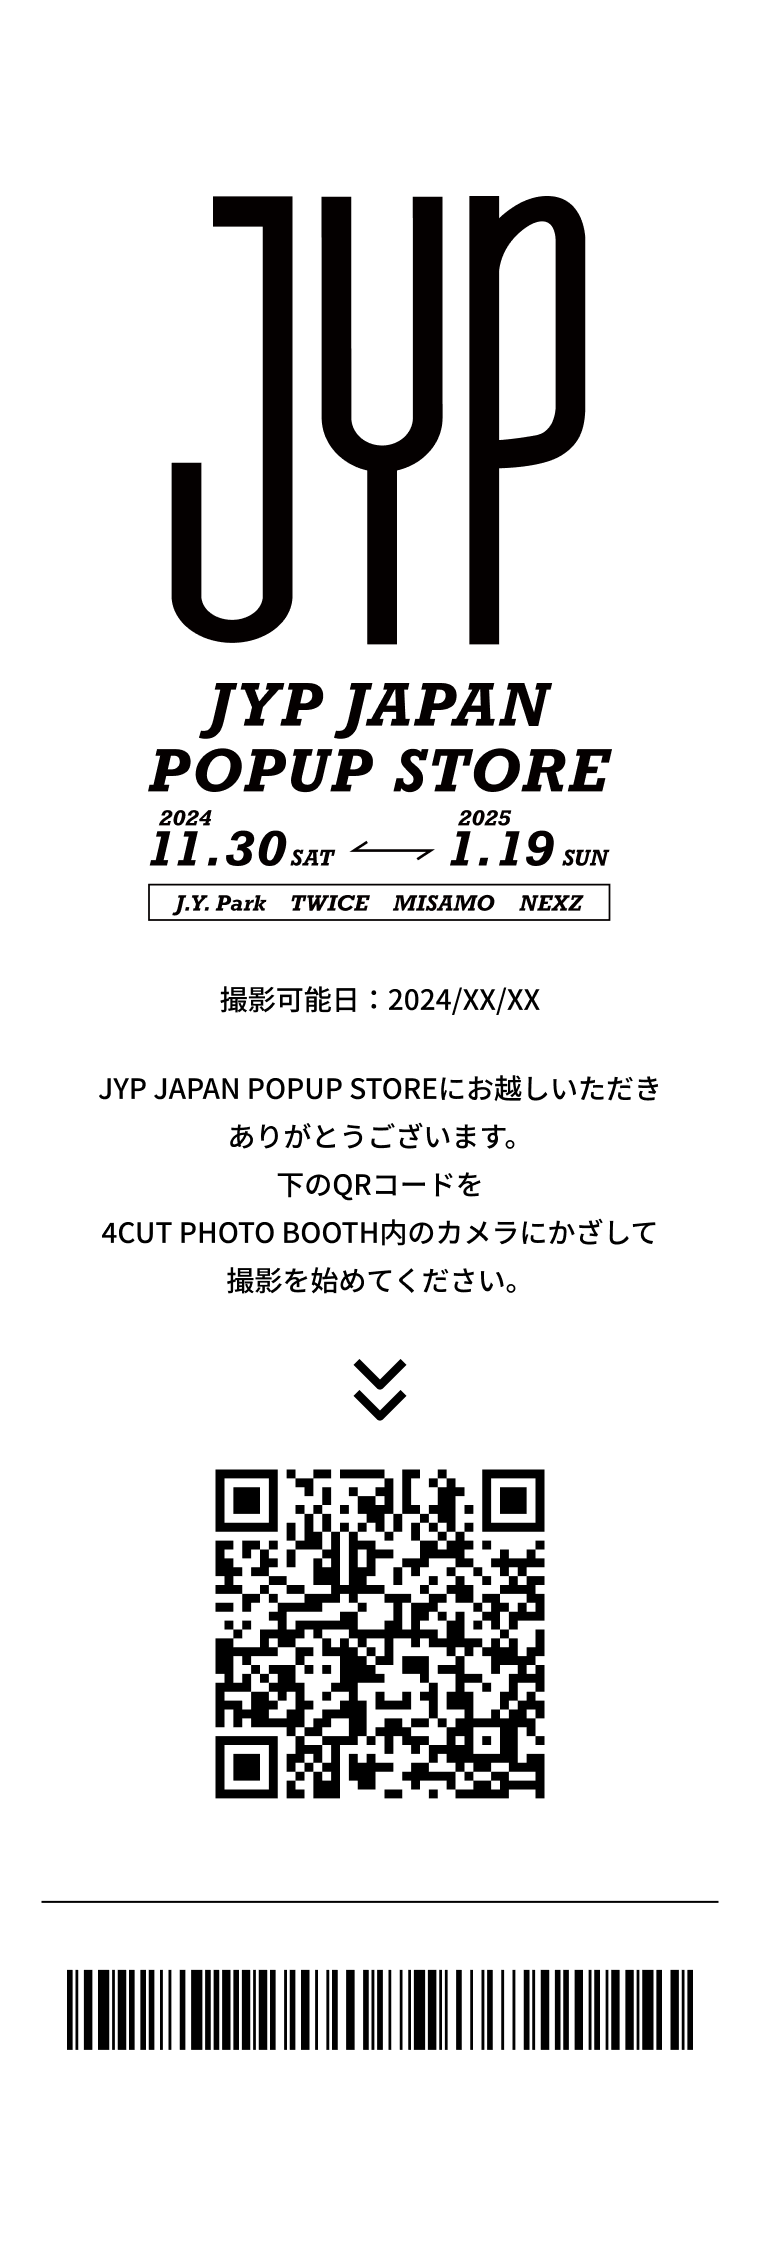
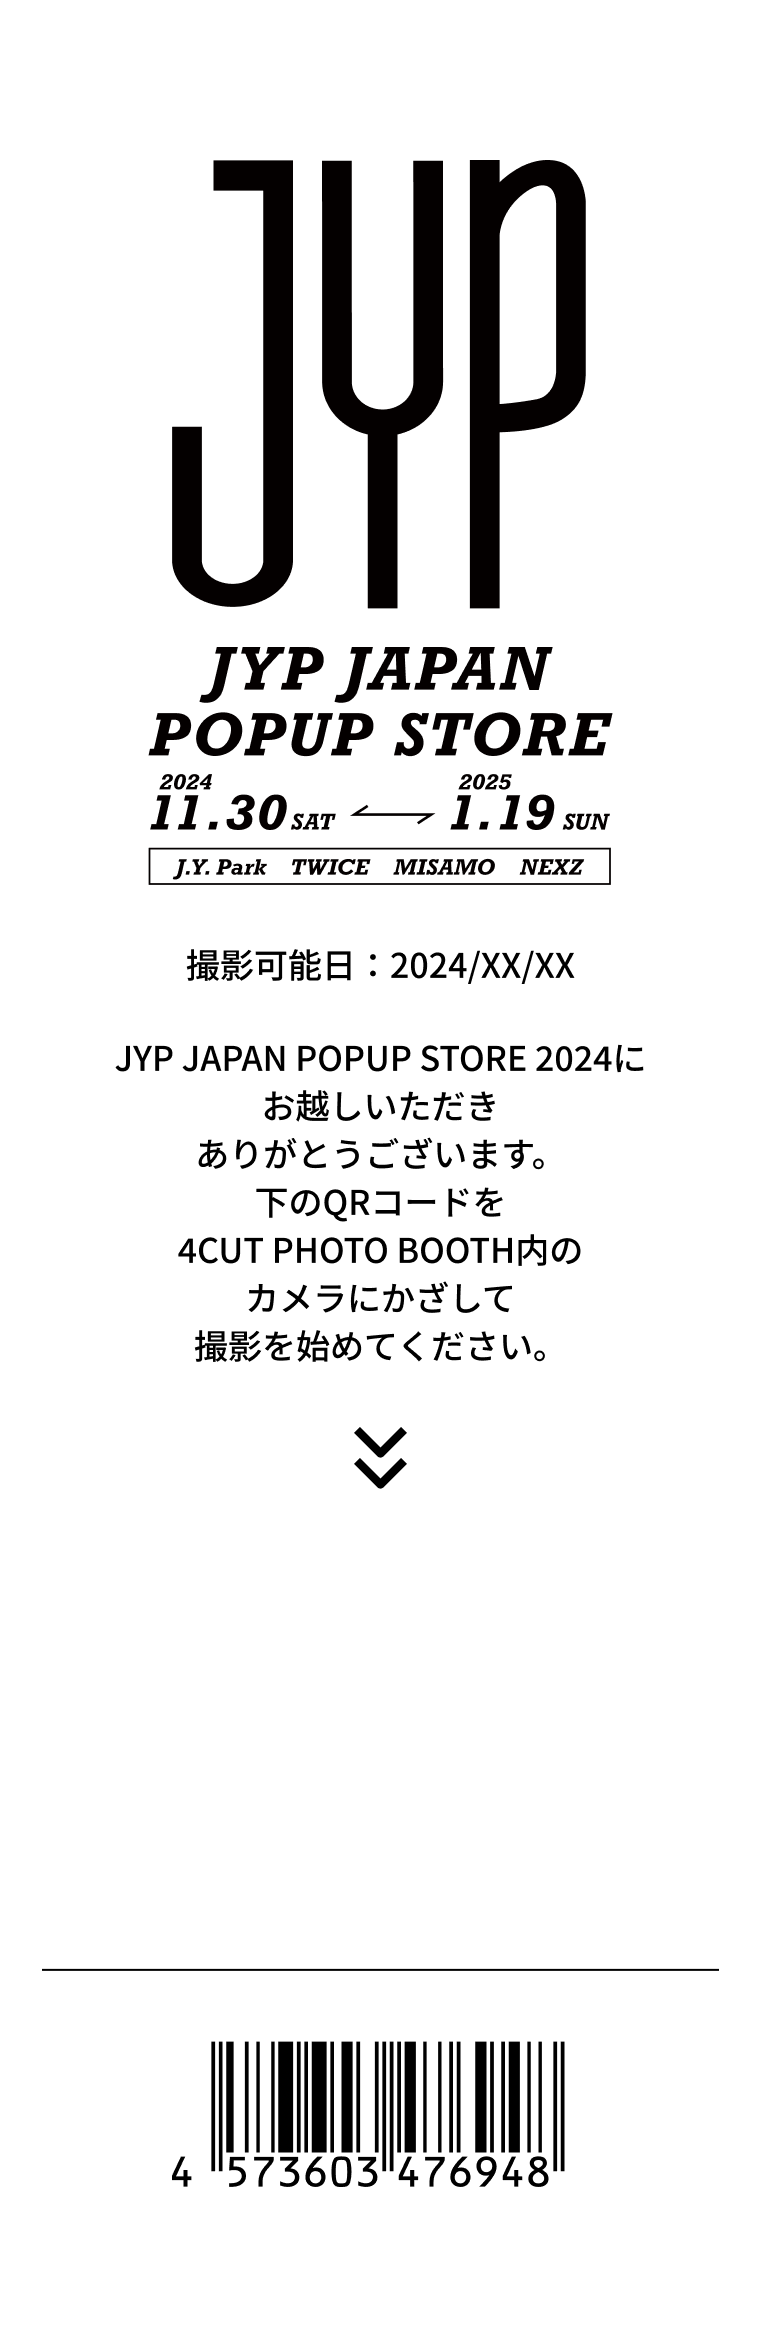
Add : Implementation to compose qr code
QRコードを合成する実装

diff --git a/Assets/Scripts/Model/Common.cs b/Assets/Scripts/Model/Common.cs
@@ -1,6 +1,5 @@
 using System;
-using System.Collections;
-using System.Collections.Generic;
+using System.IO;
 using System.Text.RegularExpressions;
 using UnityEngine;
 using Nett;
@@ -43,5 +42,40 @@ public static class Common
 
         Debug.Log($"*** [ {className} ] {methodName}() {msg} ***");
         // Debug.Log($"*** {msg} ***");
+    }
+
+    /// <summary>
+    /// 指定されたフォルダ内のすべてのファイルとサブフォルダを削除します。
+    /// </summary>
+    /// <param name="folderPath">削除対象のフォルダのパス。</param>
+    public static void ClearFolder(string folderPath)
+    {
+        try
+        {
+            if (!Directory.Exists(folderPath))
+            {
+                return;
+            }
+
+            // フォルダ内のすべてのファイルを削除
+            string[] files = Directory.GetFiles(folderPath);
+            foreach (string file in files)
+            {
+                File.Delete(file);
+                Common.Log($"delete file : {file}");
+            }
+
+            // フォルダ内のすべてのサブフォルダを削除
+            string[] directories = Directory.GetDirectories(folderPath);
+            foreach (string directory in directories)
+            {
+                Directory.Delete(directory, true); // サブフォルダとその中身を再帰的に削除
+                Common.Log($"delete dir : {directory}");
+            }
+        }
+        catch (Exception ex)
+        {
+            Common.Log($"error: {ex.Message}");
+        }
     }
 }

diff --git a/Assets/Scripts/Model/TicketComposer.cs b/Assets/Scripts/Model/TicketComposer.cs
@@ -1,0 +1,43 @@
+using System;
+using System.IO;
+using System.Threading.Tasks;
+using System.Drawing;
+using UnityEngine;
+
+public static class TicketComposer{
+    public static async Task Compose(string scrQrFilePath, string distTicketFilePath)
+    {
+        await Task.Run(() =>
+        {
+            try
+            {
+                string baseImagePath = Constants.BASE_TICKET_PATH;
+
+                using (Bitmap baseImage = new Bitmap(baseImagePath))
+                using (Bitmap qrImage = new Bitmap(scrQrFilePath))
+                using (System.Drawing.Graphics g = System.Drawing.Graphics.FromImage(baseImage))
+                {
+                    Vector2 qrImageSize = new(400, 400);
+
+                    g.DrawImage(
+                        qrImage,
+                        (baseImage.Width - qrImageSize.x) * 0.5f,
+                        baseImage.Height * 0.64f,
+                        qrImageSize.x,
+                        qrImageSize.y
+                    );
+                    g.Dispose();
+
+                    baseImage.Save(distTicketFilePath, System.Drawing.Imaging.ImageFormat.Png);
+                    baseImage.Dispose();
+                    qrImage.Dispose();
+                }
+            }
+            catch (Exception ex)
+            {
+                Common.Log($"エラーが発生しました: {ex.Message}");
+                throw;
+            }
+        });
+    }
+}

diff --git a/Assets/Scripts/Parameter/Constants.cs b/Assets/Scripts/Parameter/Constants.cs
@@ -10,14 +10,32 @@ public class Constants
     public static readonly string STREAMING_ASSETS_PATH = Application.streamingAssetsPath;
 
     /// <summary>
+    /// streamingAssetsのパス
+    /// </summary>
+    /// <value>Application.temporaryCachePath</value>
+    public static readonly string CACHE_PATH = Application.temporaryCachePath;
+
+    /// <summary>
     /// tomlファイル（設定ファイル）のパス
     /// </summary>
     /// <value></value>
     public static readonly string TOML_FILE_PATH = Path.Combine(STREAMING_ASSETS_PATH, "config.toml");
 
     /// <summary>
-    /// tomlファイル（設定ファイル）のパス
+    /// チケット（レシート）のパス
     /// </summary>
     /// <value></value>
-    public static readonly string TICKET_PATH = Path.Combine(STREAMING_ASSETS_PATH, "receipt.png");
+    public static readonly string BASE_TICKET_PATH = Path.Combine(STREAMING_ASSETS_PATH, "receipt.png");
+
+    /// <summary>
+    /// QRコードを一時的に保存するフォルダパス
+    /// </summary>
+    /// <value></value>
+    public static readonly string QR_DIR_PATH = Path.Combine(CACHE_PATH, "qr");
+
+    /// <summary>
+    /// 合成後のレシートを一時的に保存するフォルダパス
+    /// </summary>
+    /// <value></value>
+    public static readonly string TICKET_DIR_PATH = Path.Combine(CACHE_PATH, "ticket");
 }

diff --git a/Assets/Scripts/Model/SessionManager.cs b/Assets/Scripts/Model/SessionManager.cs
@@ -32,12 +32,17 @@ public class SessionManager : MonoBehaviour
         printNumView.SetPrintNumText(PrintNumCounter.GetPrintNum());
     }
 
-    public void OnClickOKButton()
+    public async void OnClickOKButton()
     {
         Common.Log();
 
+        string qrFilePath = Constants.QR_DIR_PATH + "/12345_qr.png";
+        string ticketFilePath = Constants.TICKET_DIR_PATH + "/12345_ticket.png";
+
+        await TicketComposer.Compose(qrFilePath, ticketFilePath);
+    
         PrintRequest pr = new();
-        pr.Print(Constants.TICKET_PATH, PrintNumCounter.GetPrintNum(), ret =>
+        pr.Print(ticketFilePath, PrintNumCounter.GetPrintNum(), ret =>
         {
             if (ret.isValid)
             {
@@ -63,5 +68,8 @@ public class SessionManager : MonoBehaviour
 
         PrintNumCounter.Reset();
         printNumView.SetPrintNumText(PrintNumCounter.GetPrintNum());
+
+        // Common.ClearFolder(Constants.QR_DIR_PATH);
+        Common.ClearFolder(Constants.TICKET_DIR_PATH);
     }
 }

diff --git a/Assets/Scripts/Model/Main.cs b/Assets/Scripts/Model/Main.cs
@@ -1,9 +1,23 @@
+using System.IO;
 using UnityEngine;
 
 public class Main : MonoBehaviour
 {
     void Awake()
     {
-        Common.Log();
+        Common.Log(Application.temporaryCachePath);
+
+        if (!Directory.Exists(Constants.QR_DIR_PATH))
+        {
+            Directory.CreateDirectory(Constants.QR_DIR_PATH);
+        }
+
+        if (!Directory.Exists(Constants.TICKET_DIR_PATH))
+        {
+            Directory.CreateDirectory(Constants.TICKET_DIR_PATH);
+        }
+
+        // Common.ClearFolder(Constants.QR_DIR_PATH);
+        Common.ClearFolder(Constants.TICKET_DIR_PATH);
     }
 }

diff --git a/Assets/Scripts/Model/PrintRequest.cs b/Assets/Scripts/Model/PrintRequest.cs
@@ -8,10 +8,10 @@ public class PrintRequest
     public void Print(string imgPath, int printNum, Action<RequestResult> callback)
     {
         var ret = new RequestResult();
+        Image img = Image.FromFile(imgPath);
 
         try
         {
-            Image img = Image.FromFile(imgPath);
 
             System.Drawing.Printing.PrintDocument printDocument = new();
             printDocument.PrintPage += (sender, e) =>
@@ -69,6 +69,7 @@ public class PrintRequest
             ret.message = ex.Message;
         }
 
+        img.Dispose();
         callback.Invoke(ret);
     }
 
